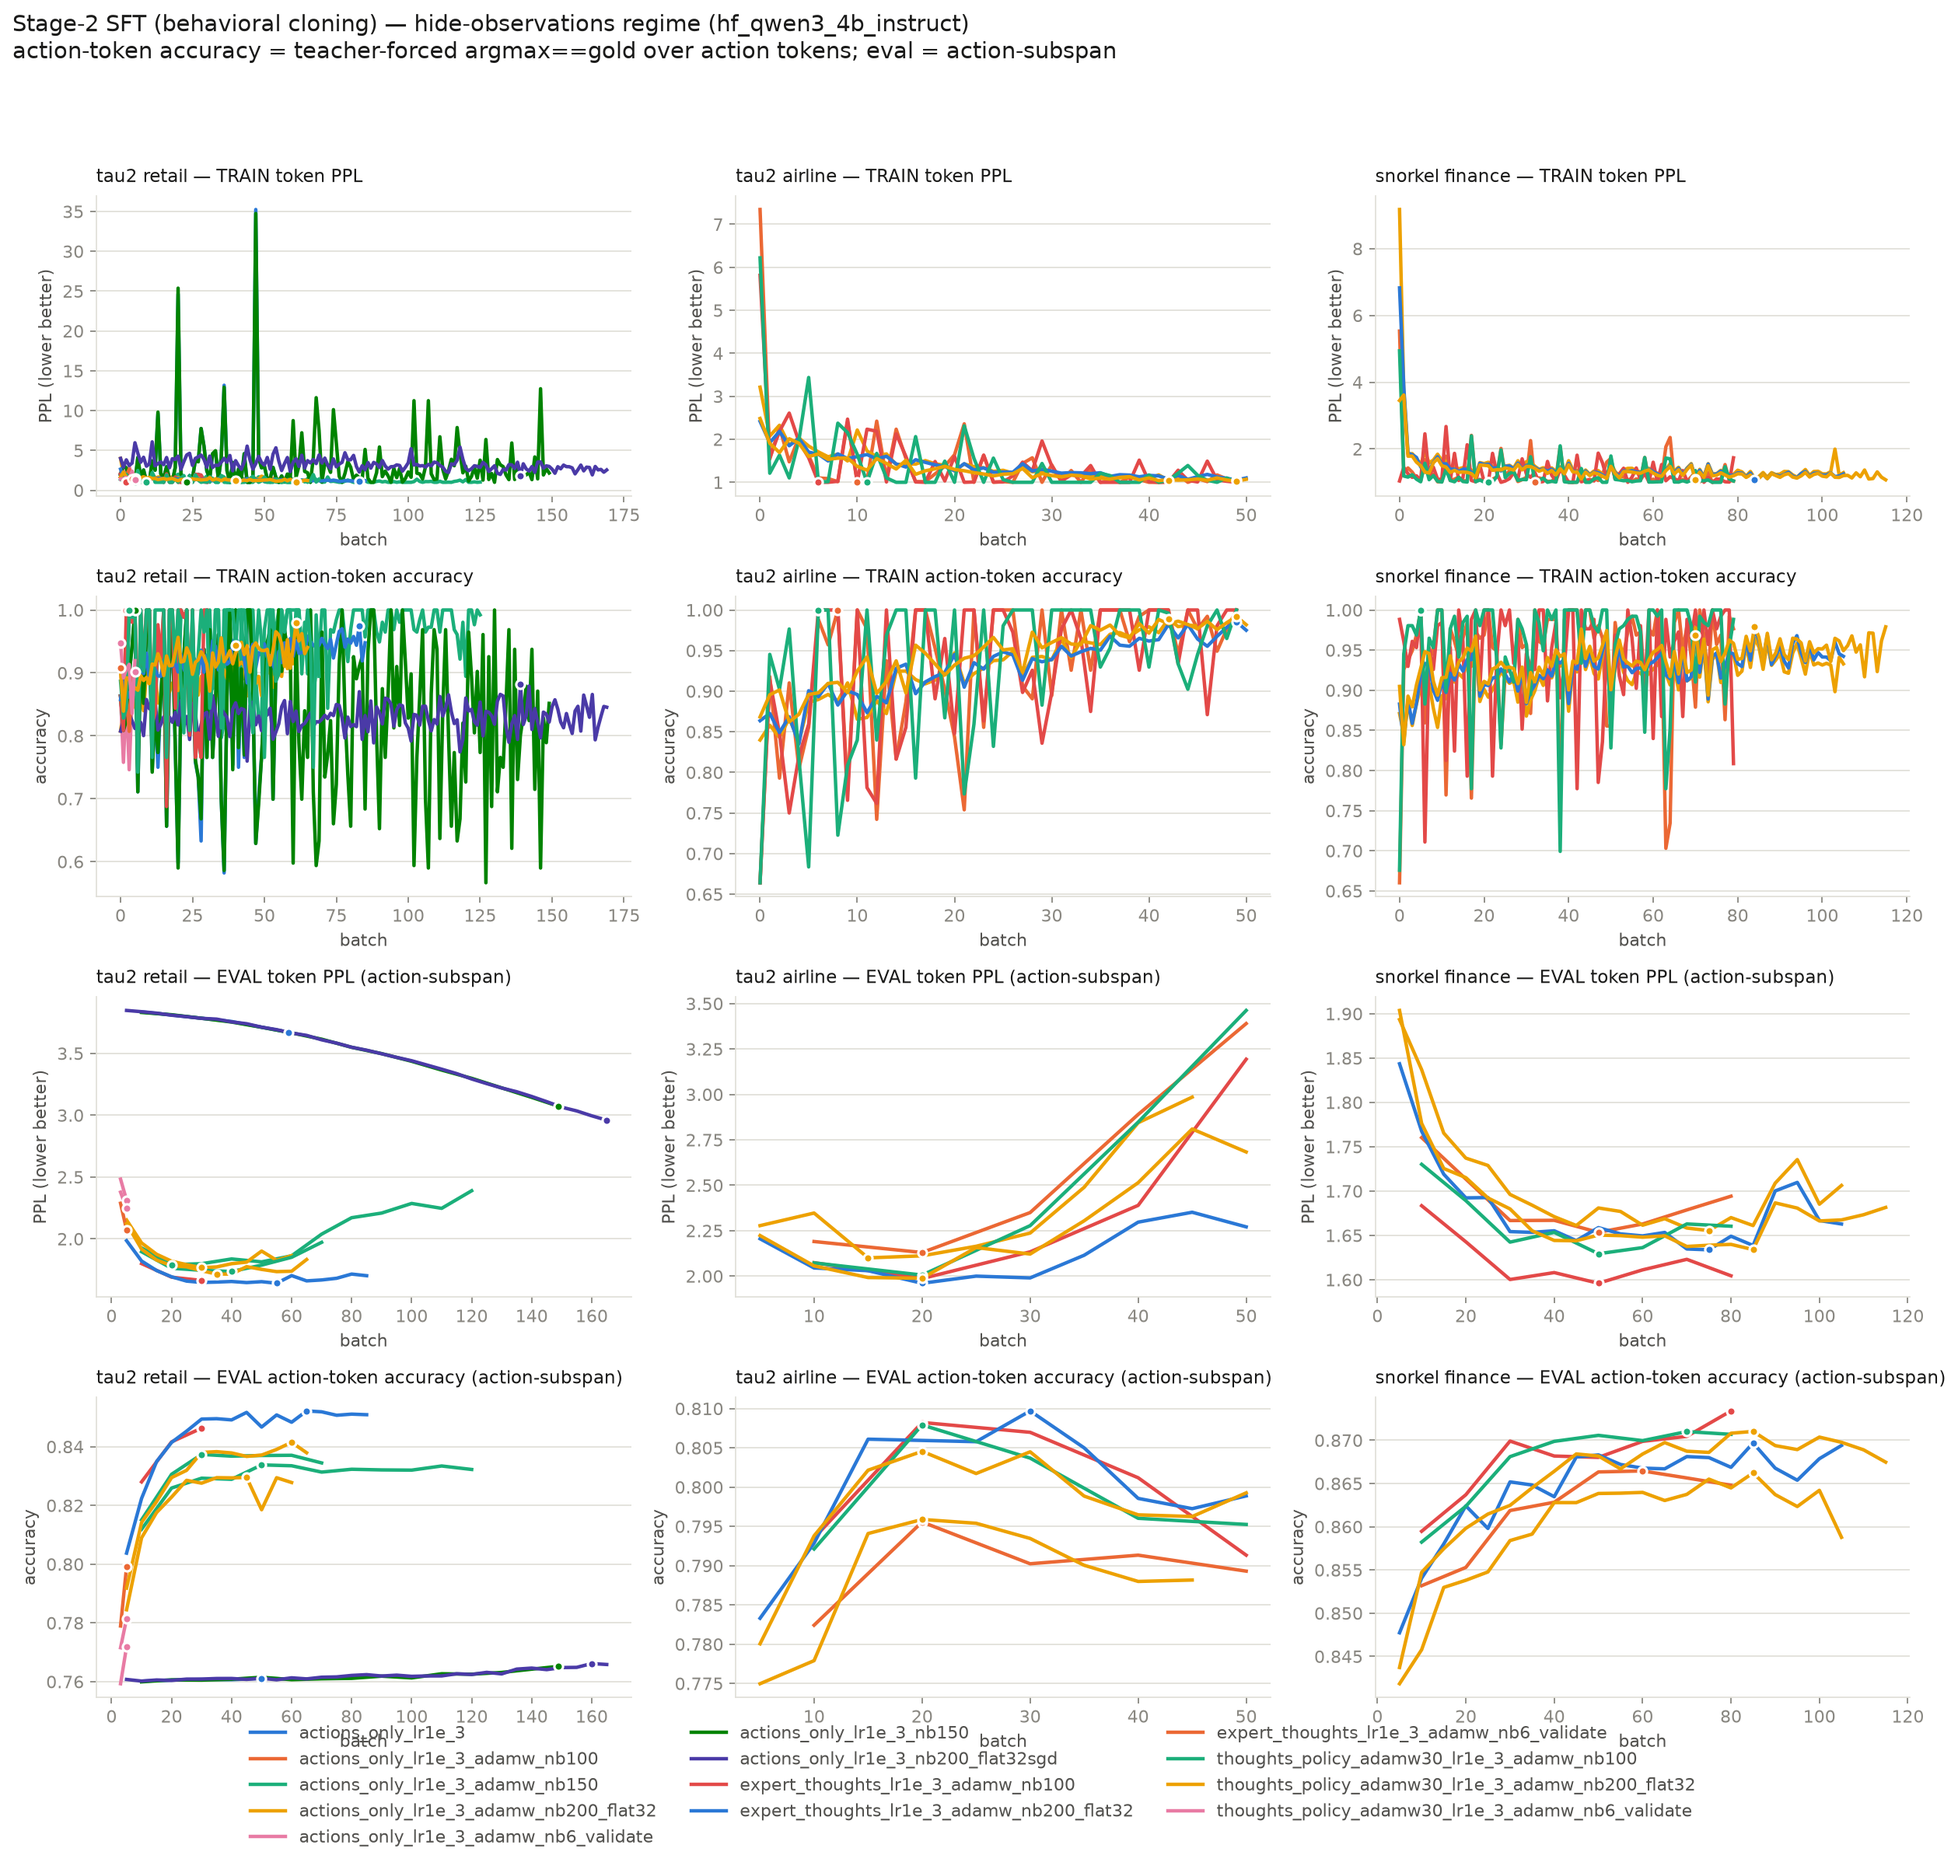
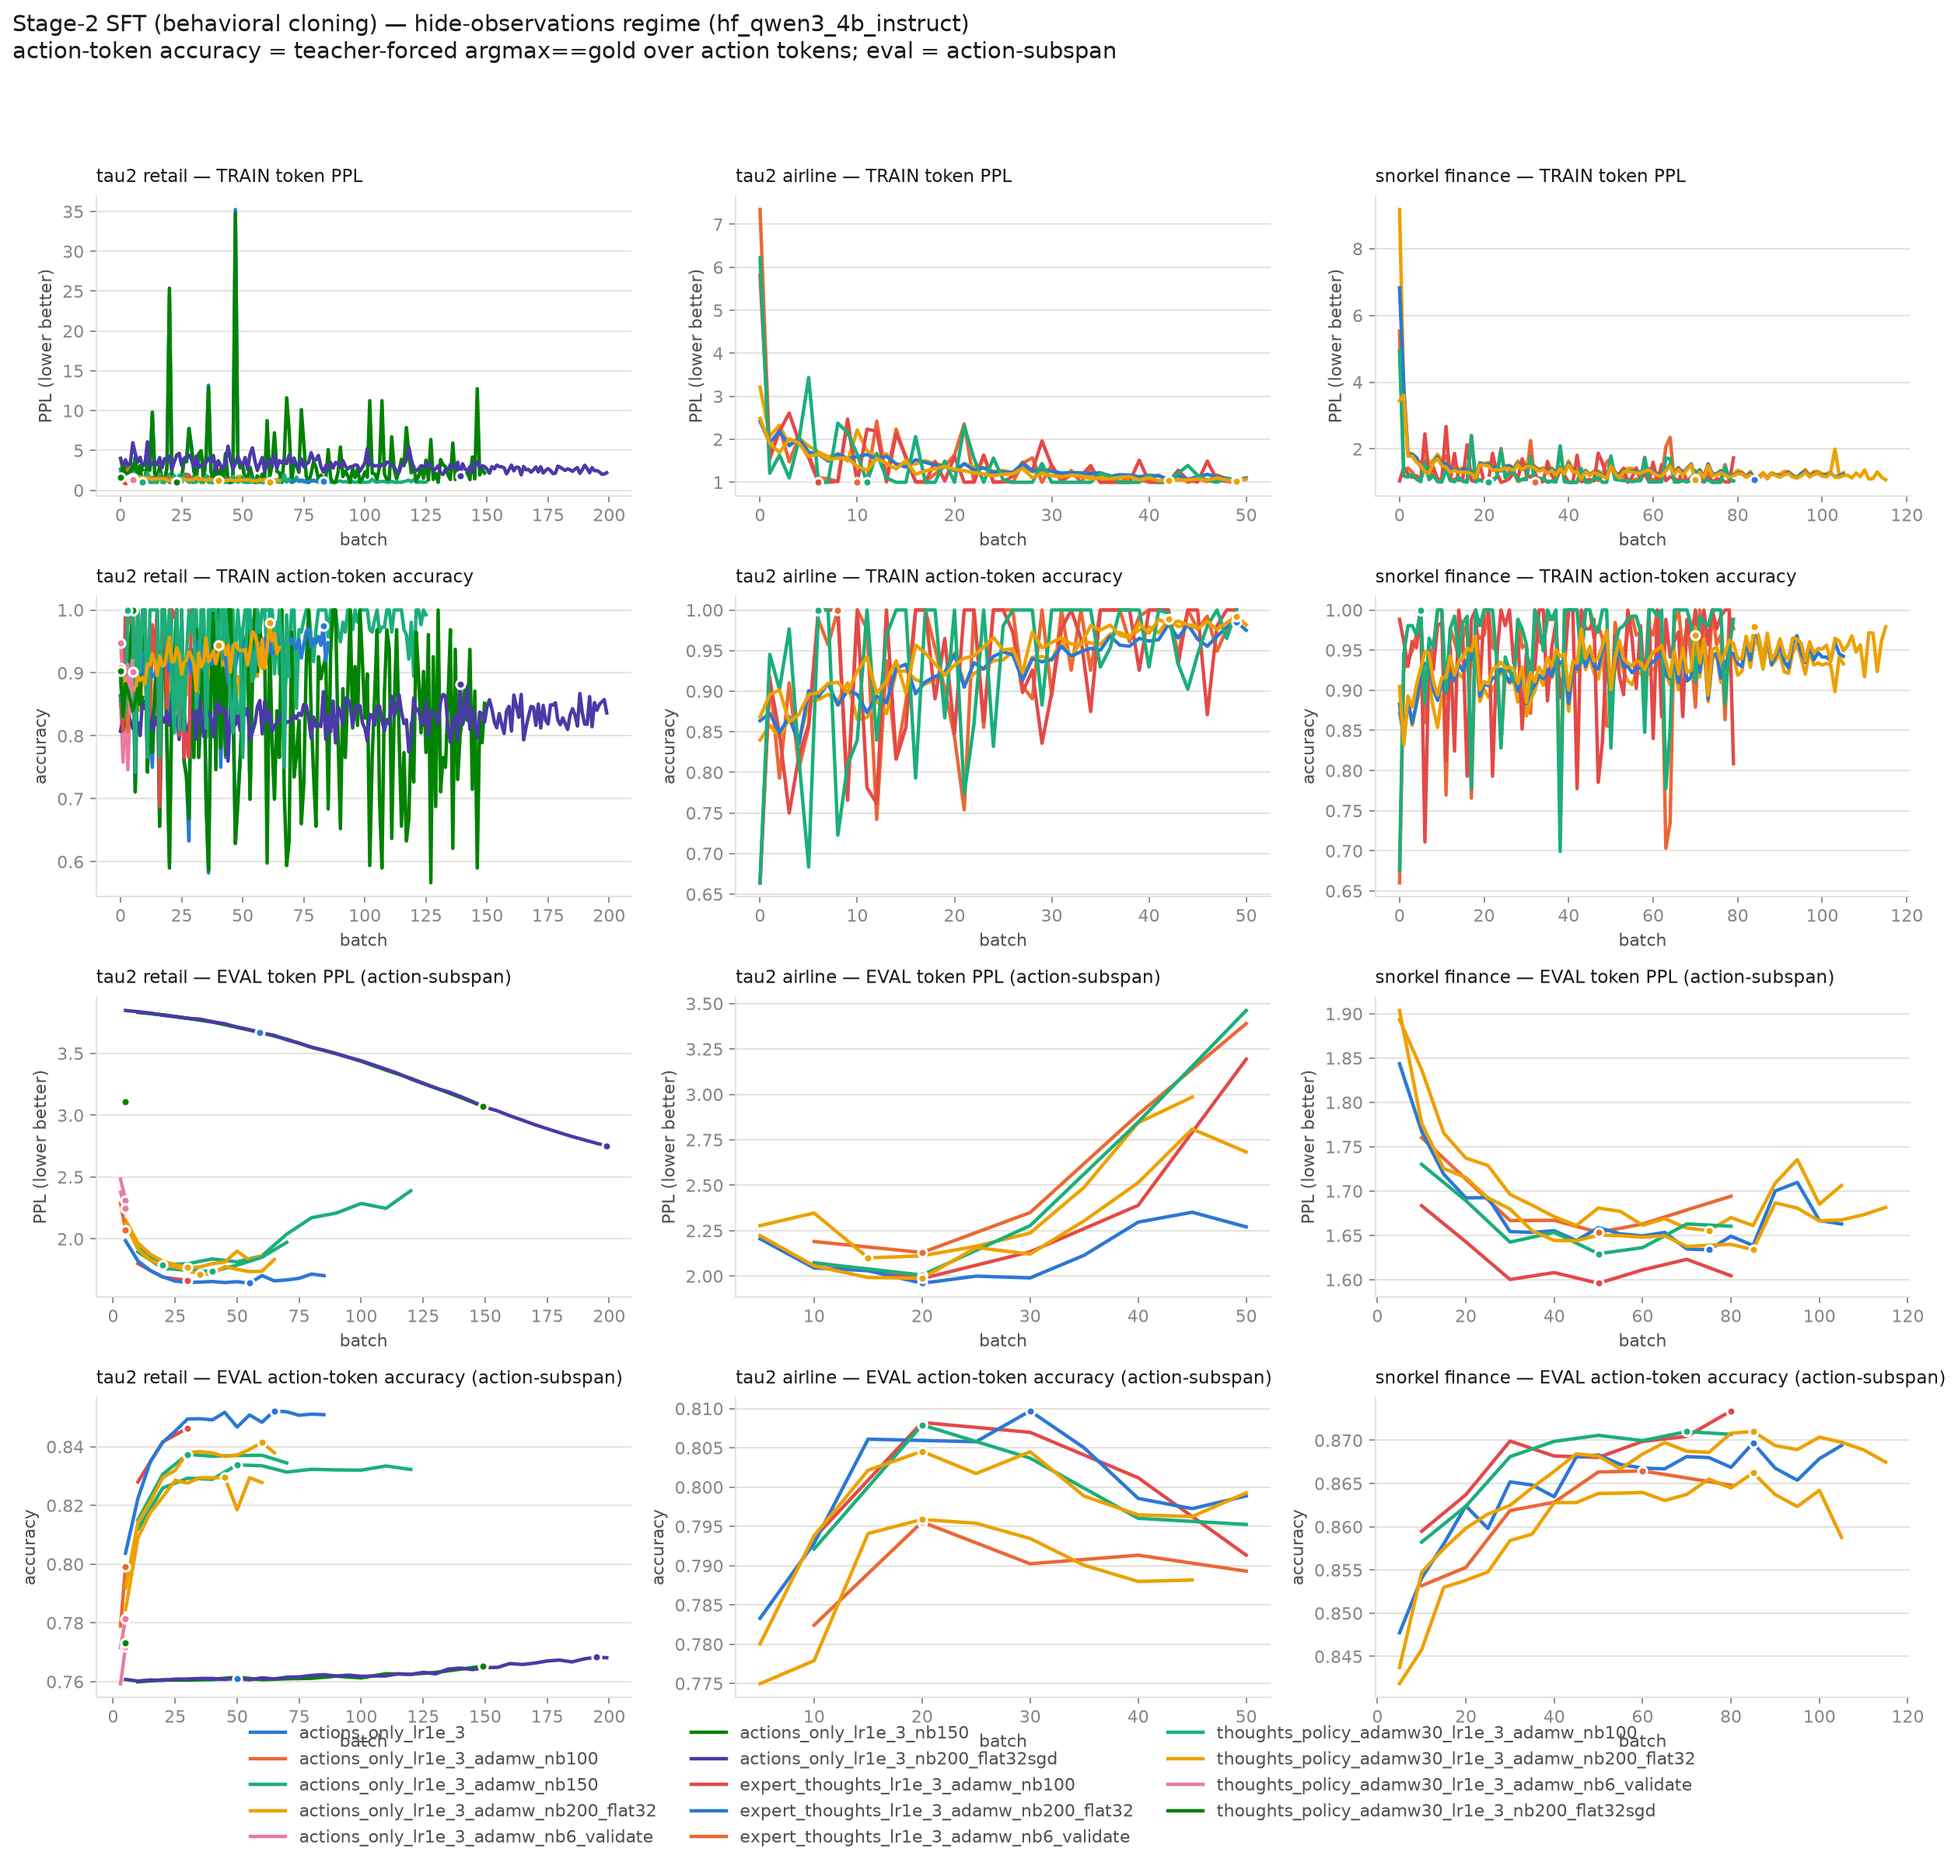
auto: SFT LR sweep results snapshot

diff --git a/notes/cc-5.0-sft-lr-investigation.md b/notes/cc-5.0-sft-lr-investigation.md
@@ -368,7 +368,7 @@ retail/actions_only_lr1e_3_adamw_nb200_flat32        hide   60     2.1524 ->   1
 retail/actions_only_lr1e_3_adamw_nb6_validate        hide    5     2.4827 ->   2.3125   6.86%  0.7719        1.5400
 retail/actions_only_lr1e_3                           hide   59     3.8355 ->   3.6702   4.31%  0.7609        1.6094
 retail/actions_only_lr1e_3_nb150                     hide  149     3.8307 ->   3.0719  19.81%  0.7652        2.1719
-retail/actions_only_lr1e_3_nb200_flat32sgd           hide  169     3.8470 ->   2.9596  23.07%  0.7658        2.5518  <running>
+retail/actions_only_lr1e_3_nb200_flat32sgd           hide  199     3.8470 ->   2.7517  28.47%  0.7681        2.2034
 retail/expert_thoughts_lr1e_3_adamw_nb100            hide   60     1.8014 ->   1.7078   5.20%  0.8487        1.0000  <running>
 retail/expert_thoughts_lr1e_3_adamw_nb100            hide   30     1.7999 ->   1.6634   7.58%  0.8463        1.0000  <running>
 retail/expert_thoughts_lr1e_3_adamw_nb200_flat32     hide   85     1.9852 ->   1.7020  14.27%  0.8509        1.2054  <running>
@@ -376,6 +376,7 @@ retail/expert_thoughts_lr1e_3_adamw_nb6_validate     hide    5     2.2879 ->   2
 retail/thoughts_policy_adamw30_lr1e_3_adamw_nb100    hide   70     1.8959 ->   1.9718  -4.00%  0.8345        1.3828  <running>
 retail/thoughts_policy_adamw30_lr1e_3_adamw_nb200_flat32 hide   65     2.1230 ->   1.8328  13.67%  0.8379        1.2222  <running>
 retail/thoughts_policy_adamw30_lr1e_3_adamw_nb6_validate hide    5     2.3775 ->   2.2449   5.57%  0.7814        1.3506
+retail/thoughts_policy_adamw30_lr1e_3_nb200_flat32sgd hide    9     3.1058 ->   3.1058   0.00%  0.7733        2.5618  <running>
 airline/actions_only_lr1e_3_adamw_nb100              hide   50     2.1901 ->   3.3899 -54.78%  0.7893        1.0000  <running>
 airline/actions_only_lr1e_3_adamw_nb200_flat32       hide   45     2.2776 ->   2.9850 -31.06%  0.7882        1.0679  <running>
 airline/expert_thoughts_lr1e_3_adamw_nb100           hide   50     2.0737 ->   3.1936 -54.00%  0.7913        1.0000  <running>
@@ -389,9 +390,9 @@ snorkel_finance_split/expert_thoughts_lr1e_3_adamw_nb200_flat32 hide  105     1.
 snorkel_finance_split/thoughts_policy_adamw30_lr1e_3_adamw_nb100 hide   80     1.7302 ->   1.6604   4.03%  0.8707        1.0391  <running>
 snorkel_finance_split/thoughts_policy_adamw30_lr1e_3_adamw_nb200_flat32 hide  115     1.9037 ->   1.6815  11.67%  0.8675        1.0747  <running>
 
-5/25 arms complete   (Δ% = held-out action-subspan PPL improvement, higher is better)
+6/26 arms complete   (Δ% = held-out action-subspan PPL improvement, higher is better)
 ```
-_last refreshed: 2026-09-01 15:40_
+_last refreshed: 2026-09-01 16:00_
 <!--/RESULTS-->
 
 ## Infrastructure

diff --git a/notes/cc-3.0-retail_sft_results.md b/notes/cc-3.0-retail_sft_results.md
@@ -25,7 +25,7 @@ for wordiness rather than for mispredicting the action, which inverts the rankin
 | actions_only_lr1e_3_adamw_nb6_validate | hide | 2.3125 | 0.7719 | 5 | — | — | — | 0.3685 |
 | actions_only_lr1e_3 | hide | 3.6702 | 0.7609 | 59 | 3.6702 | 0.7609 | 59 | 0.4756 |
 | actions_only_lr1e_3_nb150 | hide | 3.0719 | 0.7652 | 149 | 3.0719 | 0.7652 | 149 | 0.7723 |
-| actions_only_lr1e_3_nb200_flat32sgd | hide | 2.9596 | 0.7658 | 165 | — | — | — | 0.7165 |
+| actions_only_lr1e_3_nb200_flat32sgd | hide | 2.7517 | 0.7681 | 199 | — | — | — | 0.6330 |
 | actions_only_lr1e_4_adamw_nb200_flat32 | hide | 1.7538 | 0.8306 | 115 | — | — | — | 0.2505 |
 | actions_only_lr1e_4 | hide | 3.8346 | 0.7606 | 50 | 3.8346 | 0.7606 | 50 | 0.5078 |
 | actions_only_lr3e_3_nb150 | hide | 2.3422 | 0.7726 | 149 | 2.3422 | 0.7726 | 149 | 0.5186 |
@@ -44,6 +44,7 @@ for wordiness rather than for mispredicting the action, which inverts the rankin
 | thoughts_policy_adamw30_lr1e_3_adamw_nb100 | hide | 1.7358 | 0.8368 | 40 | 1.9884 | 0.7917 | 20 | 0.3668 |
 | thoughts_policy_adamw30_lr1e_3_adamw_nb200_flat32 | hide | 1.7150 | 0.8383 | 35 | — | — | — | 0.2997 |
 | thoughts_policy_adamw30_lr1e_3_adamw_nb6_validate | hide | 2.2449 | 0.7814 | 5 | — | — | — | 0.6407 |
+| thoughts_policy_adamw30_lr1e_3_nb200_flat32sgd | hide | 3.1058 | 0.7733 | 5 | — | — | — | 1.1761 |
 | thoughts_policy_adamw30_lr1e_4_adamw_nb200_flat32 | hide | 1.7313 | 0.8393 | 140 | — | — | — | 0.2530 |
 | thoughts_policy_last | hide | 3.2078 | 0.7825 | 40 | 3.7470 | 0.7390 | 10 | 1.5987 |
 | thoughts_policy_lr3e_3_nb150 | hide | 2.2059 | 0.7925 | 149 | 2.3959 | 0.7609 | 149 | 0.8757 |
@@ -92,6 +93,7 @@ that saved step:
 | thoughts_policy_adamw30_lr1e_3_adamw_nb100 | hide | 1.7621 | 0.8306 |
 | thoughts_policy_adamw30_lr1e_3_adamw_nb200_flat32 | hide | — | — |
 | thoughts_policy_adamw30_lr1e_3_adamw_nb6_validate | hide | — | — |
+| thoughts_policy_adamw30_lr1e_3_nb200_flat32sgd | hide | — | — |
 | thoughts_policy_adamw30_lr1e_4_adamw_nb200_flat32 | hide | — | — |
 | thoughts_policy_last | hide | 3.2100 | 0.7810 |
 | thoughts_policy_lr3e_3_nb150 | hide | 2.2059 | 0.7925 |
